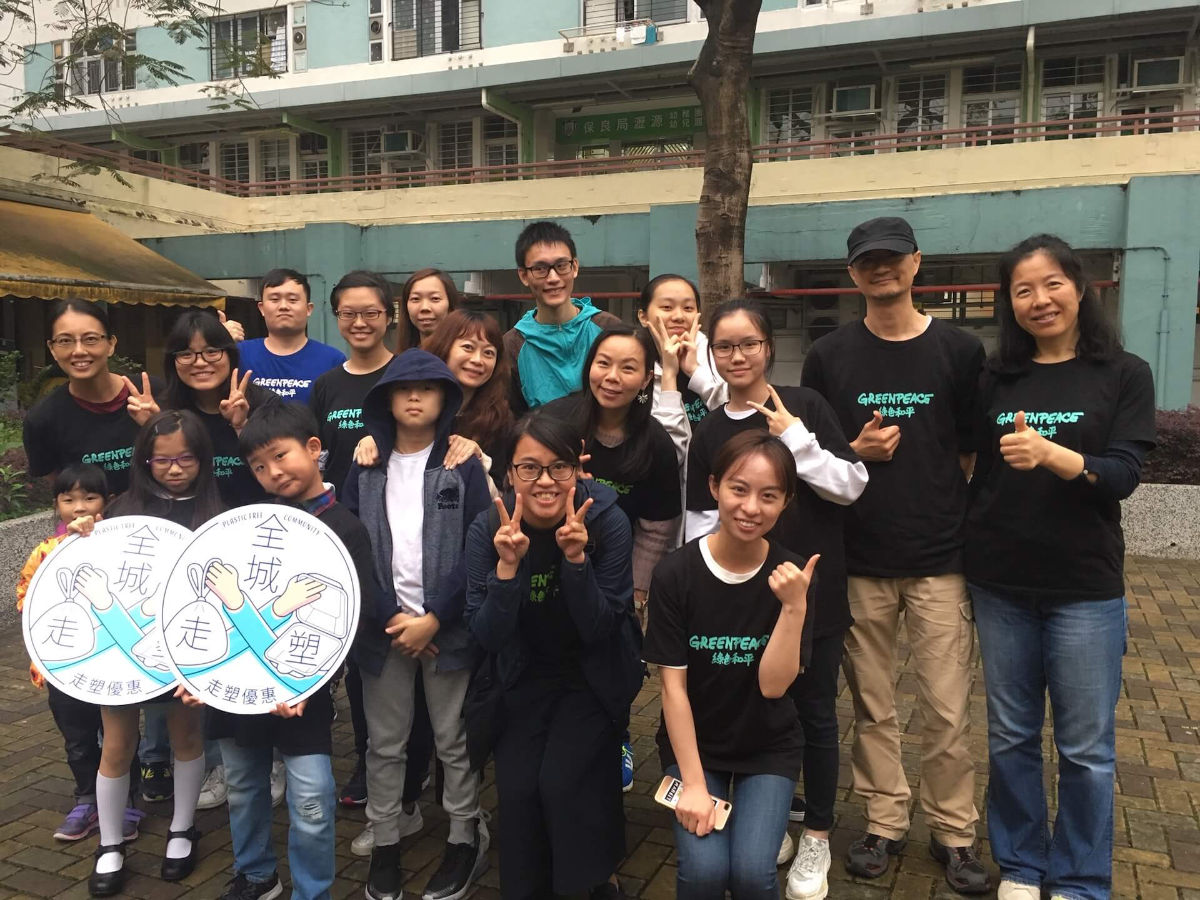
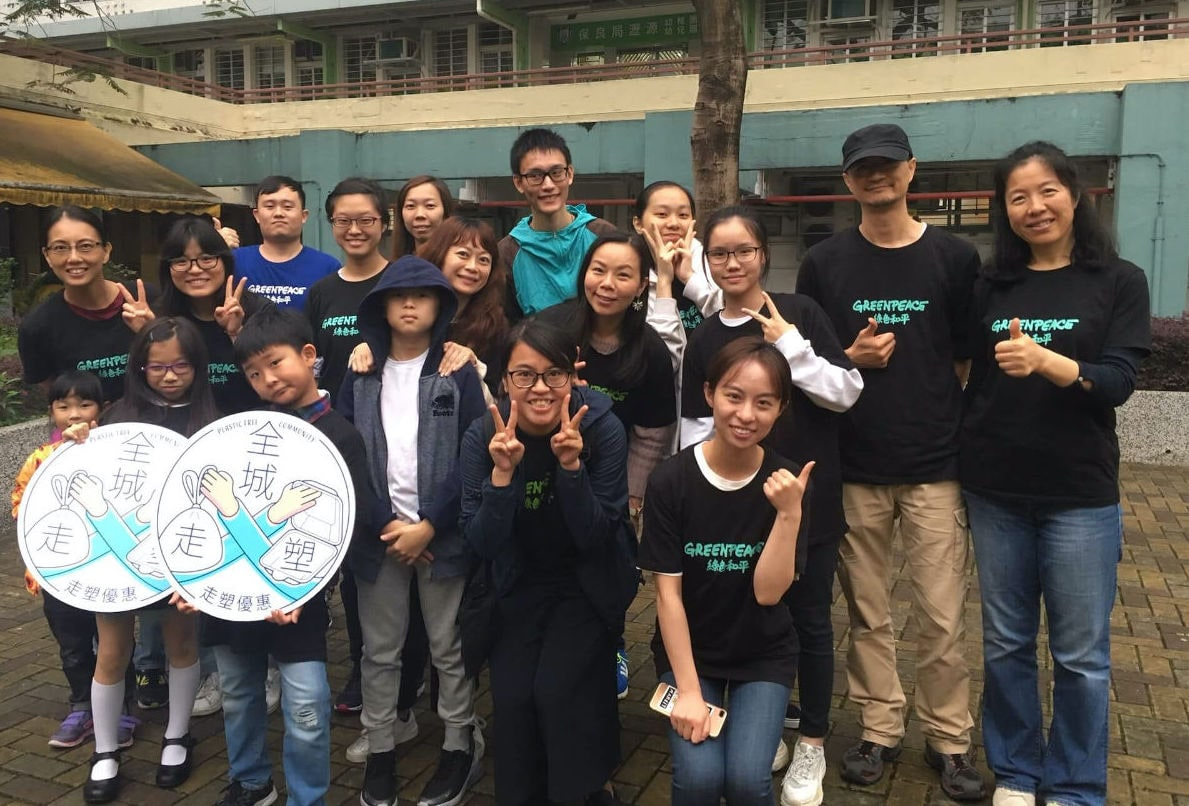
compress images

diff --git a/src/pages/Activity/style.scss b/src/pages/Activity/style.scss
@@ -40,7 +40,7 @@
 
   .section-content {
     // background-color: #eee;
-    max-width: 1000px;
+    max-width: 960px;
     padding: 0 20px 100px;
     margin: 0 auto;
     position: relative;
@@ -58,8 +58,6 @@
       display: flex;
       justify-content: space-between;
       align-items: center;
-      // background-color: #ccc;
-
       .social-icons {
         display: flex;
         flex-flow: row nowrap;
